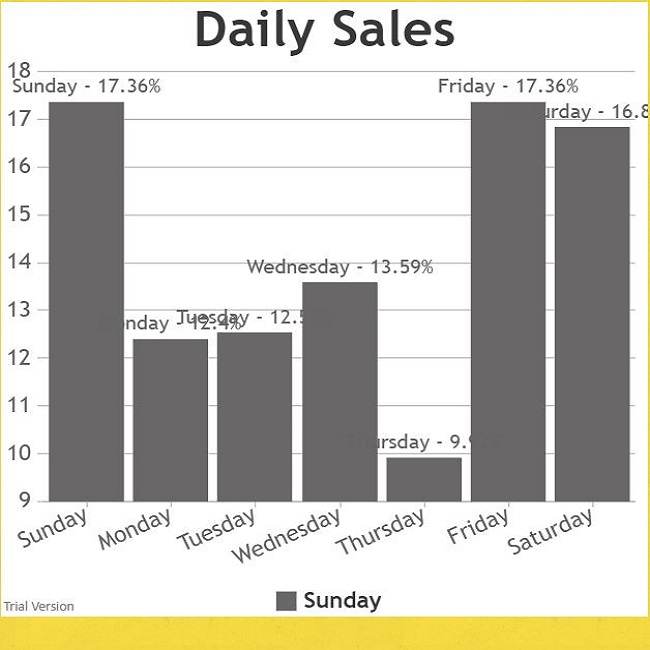
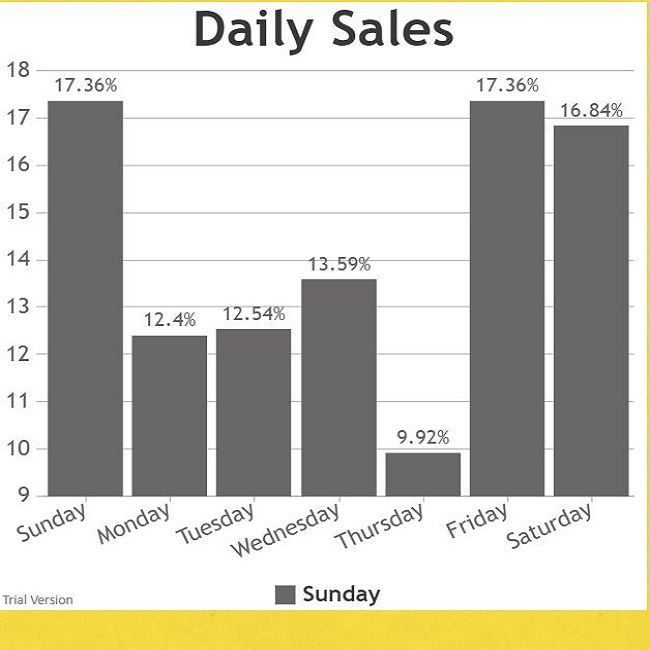
modify rm and delivery pages

diff --git a/public/css/deliveryperson/dpstyle.css b/public/css/deliveryperson/dpstyle.css
@@ -12,6 +12,7 @@
   --active-background-color:rgba(165, 165, 165, 0.2);
   --active-text-color:#dde2ff;
   --active-color:rgb(88, 81, 81);
+  --hover-active:rgb(201, 191, 191);
   --avatar-color: #D4BABA;
   --profile-text-color:#E3E3E3;
   --sidebar-font-size:16px;
@@ -168,7 +169,7 @@ nav .menu-bar{
         text-align: center;
         left:100%;
         background-color:var(--sidebar-background-color);
-        margin-top: 50px;
+        margin-top: 54px;
         transition: all 0.5s;
         z-index: 1;
     }
@@ -216,11 +217,11 @@ nav .menu-bar{
       background-color:var(--action-btn-color);;
       border: none;
       color: var( --colorWhite);
-      padding: 15px 32px;
+      padding: 15px 24px;
       text-align: center;
       text-decoration: none;
       display: inline-block;
-      font-size: 16px;
+      font-size: 15px;
       margin: 4px 2px;
       cursor: pointer;
       font-weight: 600;
@@ -235,14 +236,15 @@ nav .menu-bar{
 }
 
 .icons a.active{
-  color: var(--active-color);
+  background-color:  var(--active-background-color);
+    color: var(--active-text-color);
 }
 
-/*.icons a:hover{
+.icons a:hover{
 
-  background:var(--active-background-color);
+  background:var(--hover-active);
  
-}*/
+}
 
 
 .list ul:nth-child(odd) {
@@ -285,7 +287,8 @@ nav .menu-bar{
 @media screen and (max-width:599px) {
 
   .icons{
-    padding-left: 6px;
+    margin-top: 20px;
+    padding-left: 15px;
   }
 
   .list ul {

diff --git a/public/css/restaurantmanager/analytics/analyticsnew.css b/public/css/restaurantmanager/analytics/analyticsnew.css
@@ -29,6 +29,8 @@ body{
 
 .order-received-box {
         box-shadow: 0px 4px 8px 0 rgba(0, 0, 0, 0.2);
+        border: 1px solid #ccc;
+        border-radius: 15px;
         padding: 16px;
         text-align: center;
         background-color: var(--received-backgroundcolor);
@@ -37,6 +39,8 @@ body{
 
 .order-delivered-box {
         box-shadow: 0px 4px 8px 0 rgba(0, 0, 0, 0.2);
+        border: 1px solid #ccc;
+        border-radius: 15px;
         padding: 16px;
         text-align: center;
         background-color: var(--delivered-backgroundcolor);
@@ -45,6 +49,8 @@ body{
 
 .new-customer-box {
         box-shadow: 0px 4px 8px 0 rgba(0, 0, 0, 0.2);
+        border: 1px solid #ccc;
+        border-radius: 15px;
         padding: 16px;
         text-align: center;
         background-color: var( --customer-backgroundcolor);
@@ -52,6 +58,8 @@ body{
 
 .net-earning-box {
     box-shadow: 0px 4px 8px 0 rgba(0, 0, 0, 0.2);
+    border: 1px solid #ccc;
+    border-radius: 15px;
     padding: 16px;
     text-align: center;
     background-color: var( --netearning-backgroundcolor);

diff --git a/public/css/restaurantmanager/newsfeed.css b/public/css/restaurantmanager/newsfeed.css
@@ -22,6 +22,14 @@ body{
   overflow-y:scroll;
 }
 
+.page-container{
+  position: relative;
+  min-height: 100vh;
+}
+.content-wrapper{
+  padding-bottom: 100px; /* height of the footer */
+}
+
 .newsfeed-wrapper{
     margin-left: var(--sidebar-width);
     background-color: var(--newsfeed-background-color);
@@ -32,6 +40,7 @@ body{
     height:100%;
     width:100%;
     padding: 0px 0px;
+    margin: 4px 30px;
 /*  overflow-y:scroll;*/
 }
     

diff --git a/public/css/restaurantmanager/admin.css b/public/css/restaurantmanager/admin.css
@@ -82,8 +82,8 @@ body{
     
 .admin-content .search-container button {
         float: right;
-        padding: 6px 10px;
-        margin-top: 8px;
+        padding: 9px 10px;
+        margin-top: 2px;
         margin-right: 16px;
         background: #ddd;
         font-size: 17px;

diff --git a/application/views/restaurantmanager/RMnewsfeed.php b/application/views/restaurantmanager/RMnewsfeed.php
@@ -54,7 +54,7 @@
                             <div class="name">
                                 <strong><a href="#"><span class="text-name">Kamal Perera</span></a></strong>
                                 <div class="date">
-                                    <span class="text-when">2020/10/23 at 4:00pm</span> ·<img src="http://social-prank.foxsash.com/assets/images/facebook/icon_public.jpg" width="16" height="16" id="visiblefor-icon">
+                                    <span class="text-when">2020/10/23 at 4:00pm</span> 
                                 </div>
                             </div>
                     </div>
@@ -84,7 +84,7 @@
                             <div class="name">
                                 <strong><a href="#"><span class="text-name">Kamal Perera</span></a></strong>
                                 <div class="date">
-                                    <span class="text-when">2020/10/15 at 9:00am</span> ·<img src="http://social-prank.foxsash.com/assets/images/facebook/icon_public.jpg" width="16" height="16" id="visiblefor-icon">
+                                    <span class="text-when">2020/10/15 at 9:00am</span> 
                                 </div>
                             </div>
                     </div>
@@ -116,7 +116,7 @@
                             <div class="name">
                                 <strong><a href="#"><span class="text-name">Kamal Perera</span></a></strong>
                                 <div class="date">
-                                    <span class="text-when">2020/10/30 at 11:30am</span> ·<img src="http://social-prank.foxsash.com/assets/images/facebook/icon_public.jpg" width="16" height="16" id="visiblefor-icon">
+                                    <span class="text-when">2020/10/30 at 11:30am</span> 
                                 </div>
                             </div>
                     </div>

diff --git a/application/views/deliveryperson/dp.php b/application/views/deliveryperson/dp.php
@@ -69,11 +69,11 @@
                             <div class="name">
                                 <strong><a href="#"><span class="text-name">Kamal Perera</span></a></strong>
                                 <div class="date">
-                                    <span class="text-when">2020/10/23 at 4:00pm</span> ·<img src="http://social-prank.foxsash.com/assets/images/facebook/icon_public.jpg" width="16" height="16" id="visiblefor-icon">
+                                    <span class="text-when">2020/10/23 at 4:00pm</span> 
                                 </div>
                             </div>
                     </div>
-                            <div class="employee"><i class="fa fa-users"></i>  &nbsp;All Employees</div>
+                            <div class="employee"><i class="fa fa-users"></i>  &nbsp;Delivery Person</div>
                             </div>
 
                             <div class="news_content" style="padding-left:20px;padding-right:20px">
@@ -94,7 +94,7 @@
                             <div class="name">
                                 <strong><a href="#"><span class="text-name">Kamal Perera</span></a></strong>
                                 <div class="date">
-                                    <span class="text-when">2020/10/15 at 9:00am</span> ·<img src="http://social-prank.foxsash.com/assets/images/facebook/icon_public.jpg" width="16" height="16" id="visiblefor-icon">
+                                    <span class="text-when">2020/10/15 at 9:00am</span> 
                                 </div>
                             </div>
                     </div>

diff --git a/application/views/deliveryperson/dispatched.php b/application/views/deliveryperson/dispatched.php
@@ -8,6 +8,7 @@
   <?php echo link_css("css/header-dashboard.css?ts=<?=time()?>"); ?>
   <?php echo link_css("css/footer_3.css?ts=<?=time()?>"); ?>
   <link rel="stylesheet" href="https://cdnjs.cloudflare.com/ajax/libs/font-awesome/4.7.0/css/font-awesome.min.css">
+  <link rel="stylesheet" href="https://use.fontawesome.com/releases/v5.15.1/css/all.css" integrity="sha384-vp86vTRFVJgpjF9jiIGPEEqYqlDwgyBgEF109VFjmqGmIY/Y4HV4d3Gp2irVfcrp" crossorigin="anonymous">
   <script src='https://kit.fontawesome.com/a076d05399.js'></script>
  </head>
 
@@ -60,7 +61,7 @@
 <!--  <a href="ondelivery.php" button class="btn"><i class='fas fa-biking' style="font-size:24px;padding-right:40px"></i></button> </a>-->
 <?php echo anchor("delivery_controller/ondelivery", "Ondelivery",['class'=>"add"]) ?>
 <!--  <a href="dispatched.php" button class="btn"><i class='fas fa-clipboard-check' style="font-size:24px"></i></button> </a>-->
-<?php echo anchor("delivery_controller/ondelivery", "Dispatched",['class'=>"active",'class'=>"add"]) ?>
+<?php echo anchor("delivery_controller/dispatched", "Dispatched",['class'=>"active",'class'=>"add"]) ?>
   </div>
 
   <div class="list">

diff --git a/application/views/restaurantmanager/analytics/analyticsnew.php b/application/views/restaurantmanager/analytics/analyticsnew.php
@@ -29,29 +29,29 @@
      <!--   <div class="box">-->
             <div class="column">
             <div class="order-received-box">
-            <h2>Orders received:</h2><br>
-            <h2>250</h2>
+            <h3>Orders received</h3><br>
+            <h1>250</h1>
             </div>
             </div>
 
             <div class="column">
             <div class="order-delivered-box">
-            <h2>Orders deilivered:</h2><br>
-            <h2>100</h2>
+            <h3>Orders deilivered</h3><br>
+            <h1>100</h1>
             </div>
             </div>
 
             <div class="column">
             <div class="new-customer-box">
-            <h2>New Customer:</h2><br>
-            <h2>23</h2>
+            <h3>New Customer</h3><br>
+            <h1>23</h1>
             </div>
             </div>
 
             <div class="column">
             <div class="net-earning-box">
-            <h2>Net earning:</h2><br>
-            <h2>Rs.15,000</h2>
+            <h3>Net earning</h3><br>
+            <h1>Rs.15,000</h1>
             </div>
           </div> 
             

diff --git a/application/views/deliveryperson/ondelivery.php b/application/views/deliveryperson/ondelivery.php
@@ -8,6 +8,7 @@
   <?php echo link_css("css/header-dashboard.css?ts=<?=time()?>"); ?>
   <?php echo link_css("css/footer_3.css?ts=<?=time()?>"); ?>
   <link rel="stylesheet" href="https://cdnjs.cloudflare.com/ajax/libs/font-awesome/4.7.0/css/font-awesome.min.css">
+  <link rel="stylesheet" href="https://use.fontawesome.com/releases/v5.15.1/css/all.css" integrity="sha384-vp86vTRFVJgpjF9jiIGPEEqYqlDwgyBgEF109VFjmqGmIY/Y4HV4d3Gp2irVfcrp" crossorigin="anonymous">
   <script src='https://kit.fontawesome.com/a076d05399.js'></script>
  </head>
 

diff --git a/application/views/restaurantmanager/fooditem/RM.php b/application/views/restaurantmanager/fooditem/RM.php
@@ -80,7 +80,7 @@
                 </div>
             </div>
             </div>
-    <?php include '../application/views/footer/footer_3.php';?>
+            <?php include '../application/views/footer/footer_3.php';?>
     </div>
     <?php echo link_js("js/restaurantmanager/delete.js"); ?>  
 </body>

diff --git a/application/views/restaurantmanager/analytics/column.php b/application/views/restaurantmanager/analytics/column.php
@@ -20,7 +20,7 @@ var chart1 = new CanvasJS.Chart("chartContainer1", {
 		showInLegend: "true",
 		legendText: "{label}",
 		indexLabelFontSize: 16,
-		indexLabel: "{label} - {y}%",
+		indexLabel: "{y}%",
 		dataPoints: [
 			{ y: 17.36, label: "Sunday" },
 			{ y: 12.40, label: "Monday" },
